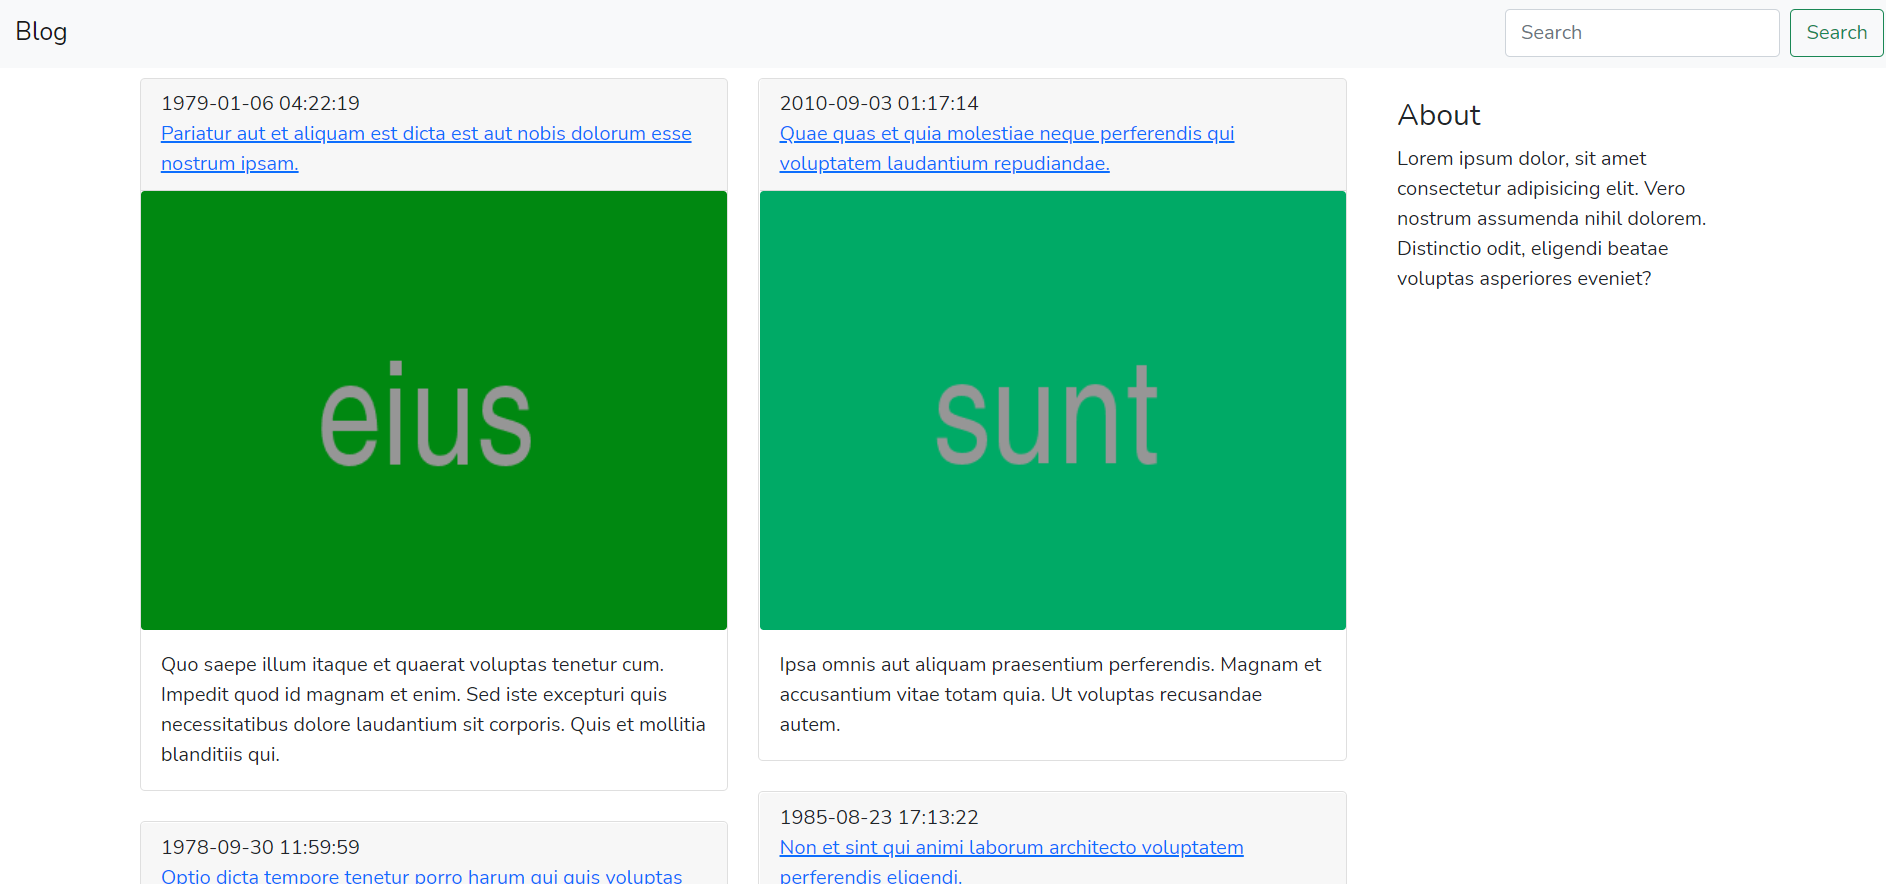
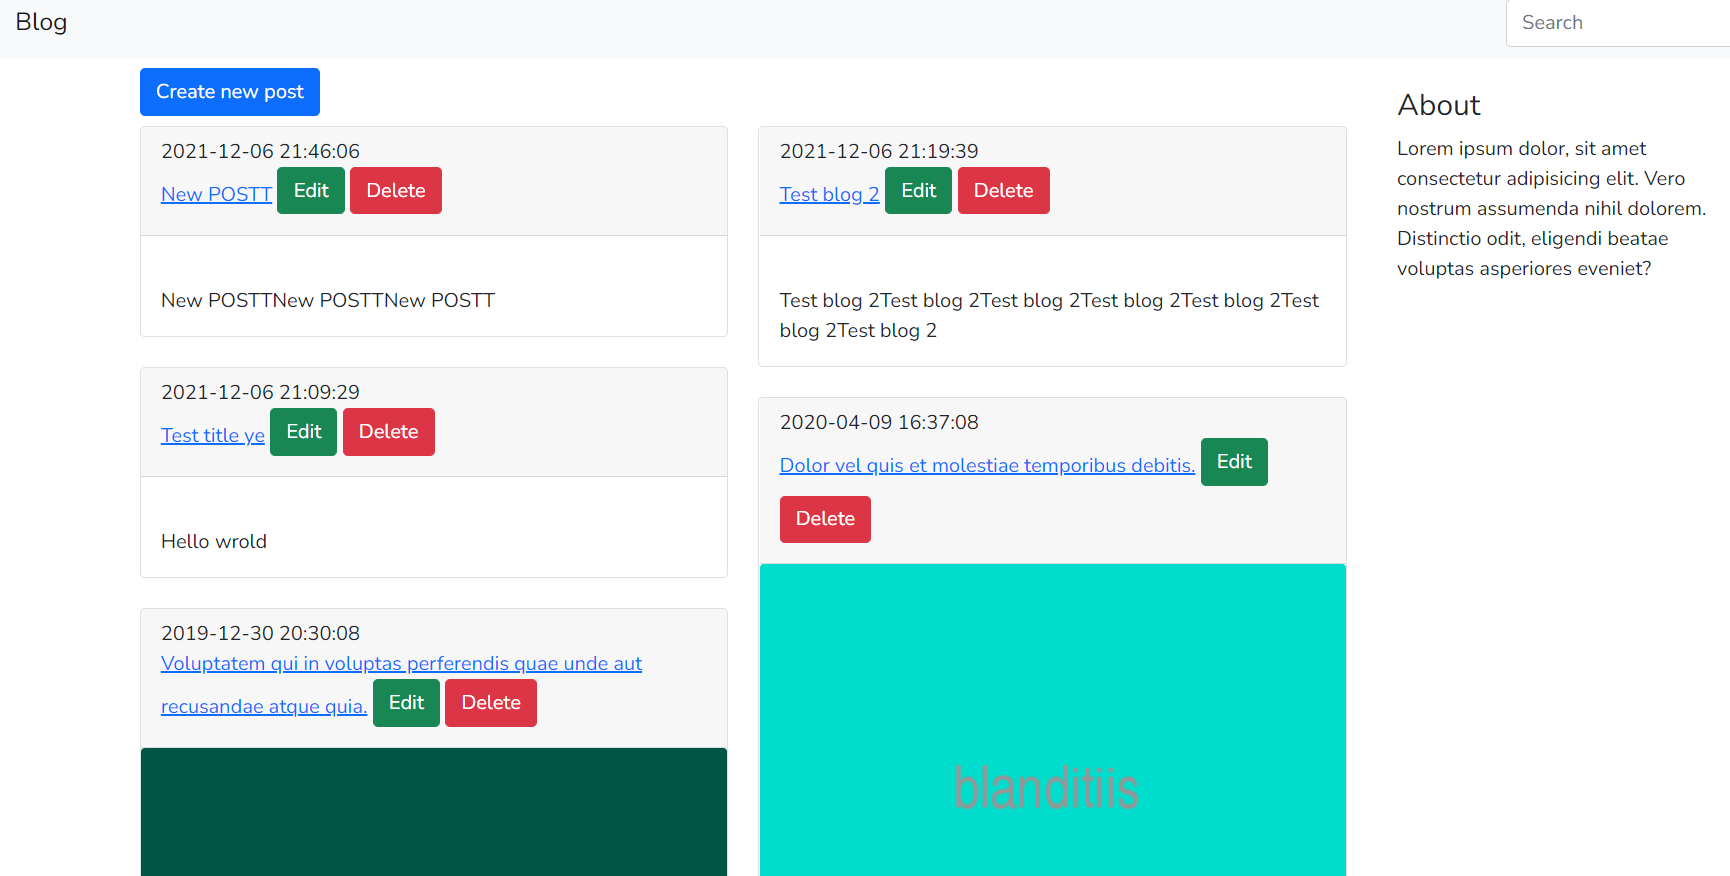
CRUD

diff --git a/testing/blog/resources/views/pages/blog.blade.php b/testing/blog/resources/views/pages/blog.blade.php
@@ -4,18 +4,41 @@
 
 @section('content')
     <div class="col-md-9">
+        @if ($msg = Session::get('success'))
+            <div class="position-fixed bottom-0 end-0 p-3" style="z-index: 11">
+                <div id="liveToast" class="toast show" role="alert" aria-live="assertive" aria-atomic="true">
+                    <div class="toast-header">
+                        <strong class="me-auto"><i class="bi-globe"></i> Success!</strong>
+                        <small>Now</small>
+                        <button type="button" class="btn-close" data-bs-dismiss="toast"></button>
+                    </div>
+                    <div class="toast-body">
+                        {{ $msg }}
+                    </div>
+                </div>
+            </div>
+        @endif
         <div class="row">
-
+            <div class="col-md-12">
+                <a href="{{ route('posts.create') }}" class="btn btn-primary mb-2">Create new post</a>
+            </div>
             <div class="col-md-6">
                 @for ($i = 0; $i < count($posts); $i += 2)
                     <?php $post = $posts[$i]; ?>
                     <article class="card mb-4">
                         <header class="card-header">
                             <div class="card-meta">{{ $post['created_at'] }}</div>
-                            <a href="{{ route('viewPost', ['slug' => $post['slug']]) }}">{{ $post['title'] }}</a>
+                            <a href="{{ route('posts.show', ['slug' => $post['slug']]) }}">{{ $post['title'] }}</a>
+                            <a href="{{ route('posts.edit', ['slug' => $post['slug']]) }}"
+                                class="btn btn-success mb-2">Edit</a>
+                            <form action="{{ route('posts.destroy', $post->slug) }}" method="POST">
+                                @csrf
+                                @method("DELETE")
+                                <button type="submit" class="btn btn-danger mb-2">Delete</button>
+                            </form>
                         </header>
-                        <a href="{{ route('viewPost', ['slug' => $post['slug']]) }}">
-                            <img class="card-img" src="/storage/images/{{ $post['image'] }}" />
+                        <a href="{{ route('posts.show', ['slug' => $post['slug']]) }}">
+                            <img class="card-img" src="/storage/images/{{ $post['image'] }}" alt="" />
                         </a>
                         <div class="card-body">
                             {{ $post['body'] }}
@@ -29,10 +52,17 @@
                     <article class="card mb-4">
                         <header class="card-header">
                             <div class="card-meta">{{ $post['created_at'] }}</div>
-                            <a href="{{ route('viewPost', ['slug' => $post['slug']]) }}">{{ $post['title'] }}</a>
+                            <a href="{{ route('posts.show', ['slug' => $post['slug']]) }}">{{ $post['title'] }}</a>
+                            <a href="{{ route('posts.edit', ['slug' => $post['slug']]) }}"
+                                class="btn btn-success mb-2">Edit</a>
+                            <form action="{{ route('posts.destroy', $post->slug) }}" method="POST">
+                                @csrf
+                                @method("DELETE")
+                                <button type="submit" class="btn btn-danger mb-2">Delete</button>
+                            </form>
                         </header>
-                        <a href="{{ route('viewPost', ['slug' => $post['slug']]) }}">
-                            <img class="card-img" src="/storage/images/{{ $post['image'] }}" />
+                        <a href="{{ route('posts.show', ['slug' => $post['slug']]) }}">
+                            <img class="card-img" src="/storage/images/{{ $post['image'] }}" alt="" />
                         </a>
                         <div class="card-body">
                             {{ $post['body'] }}
@@ -43,6 +73,13 @@
 
         </div>
     </div>
+
+    <style>
+        form {
+            display: inline;
+        }
+
+    </style>
 
     {{-- @php
     $range = [1, 100];

diff --git a/testing/blog/app/Http/Controllers/PostsController.php b/testing/blog/app/Http/Controllers/PostsController.php
@@ -1,0 +1,110 @@
+<?php
+
+namespace App\Http\Controllers;
+
+use App\Models\Blog;
+use Illuminate\Http\Request;
+
+class PostsController extends Controller
+{
+    /**
+     * Display a listing of the resource.
+     *
+     * @return \Illuminate\Http\Response
+     */
+    public function index()
+    {
+        $posts = Blog::latest()->paginate(7);
+     
+        return view("pages.blog", [
+            "posts" => $posts
+        ]);
+    }
+
+    /**
+     * Show the form for creating a new resource.
+     *
+     * @return \Illuminate\Http\Response
+     */
+    public function create()
+    {
+        return view("pages.create_post");
+    }
+
+    /**
+     * Store a newly created resource in storage.
+     *
+     * @param  \Illuminate\Http\Request  $request
+     * @return \Illuminate\Http\Response
+     */
+    public function store(Request $request)
+    {
+        $request->validate([
+            "title" => "required",
+            "body" => "required",
+        ]);
+        $slug = [
+            "slug" => strtolower(str_replace(" ", "-", $request->input("title")))
+        ];
+        Blog::create($request->all() + $slug);
+        
+        return redirect()->route("posts.index")->with("success", "Post has been added");
+    }
+
+    /**
+     * Display the specified resource.
+     *
+     * @param  \App\Models\String  $slug
+     * @return \Illuminate\Http\Response
+     */
+    public function show($slug)
+    {
+        $post = Blog::where("slug", $slug)->firstOrFail();
+        return view("pages.post", $post);
+    }
+
+    /**
+     * Show the form for editing the specified resource.
+     *
+     * @param  \App\Models\String  $slug
+     * @return \Illuminate\Http\Response
+     */
+    public function edit($slug)
+    {
+        $post = Blog::where("slug", $slug)->firstOrFail();
+        return view("pages.post_edit", $post);
+    }
+
+    /**
+     * Update the specified resource in storage.
+     *
+     * @param  \Illuminate\Http\Request  $request
+     * @param  \App\Models\String  $slug
+     * @return \Illuminate\Http\Response
+     */
+    public function update(Request $request, $slug)
+    {
+        $validatedData = $request->validate([
+            "title" => "required",
+            "body" => "required",
+        ]);
+
+        Blog::where("slug", $slug)->update($validatedData);
+
+        return redirect("/posts")->with("success", "Post has been updated");
+    }
+
+    /**
+     * Remove the specified resource from storage.
+     *
+     * @param  \App\Models\String  $slug
+     * @return \Illuminate\Http\Response
+     */
+    public function destroy($slug)
+    {
+        $post = Blog::where("slug", $slug)->firstOrFail();
+        $post->delete();
+
+        return redirect("/posts")->with("success", "Post has been deleted");
+    }
+}

diff --git a/testing/blog/resources/views/pages/post_edit.blade.php b/testing/blog/resources/views/pages/post_edit.blade.php
@@ -1,0 +1,35 @@
+@extends ("layouts.app")
+
+@section('title', 'Editing post ' . $title)
+
+@section('content')
+    <div class="col-md-9">
+        <form action="{{ route('posts.update', $slug) }}" method="POST">
+            @csrf
+            @method("PUT")
+            <div class="mb-3">
+                <h1>Editing</h1>
+                <label for="titleInput" class="form-label">Title </label>
+                <input name="title" value="{{ $title }}" type="text" class="form-control" id="titleInput"
+                    placeholder="Title">
+                <div id="emailHelp" class="form-text">Your post's title publicly visible to everyone.</div>
+
+                <input style="display: none;" name="author" value="TODO" />
+                <input style="display: none;" name="category" value="TODO" />
+                <input style="display: none;" name="image" value="TODO" />
+
+
+            </div>
+            <div class="mb-3">
+                <label for="exampleFormControlTextarea1">Content</label>
+                <textarea name="body" class="form-control" id="exampleFormControlTextarea1" rows="10"
+                    placeholder="Write your post here">{{ $body }}</textarea>
+            </div>
+
+            <button type="submit" class="btn btn-success">Edit blog</button>
+
+
+
+        </form>
+    </div>
+@endsection

diff --git a/testing/blog/resources/views/pages/create_post.blade.php b/testing/blog/resources/views/pages/create_post.blade.php
@@ -1,0 +1,32 @@
+@extends ("layouts.app")
+
+@section('title', 'Create new post')
+
+@section('content')
+    <div class="col-md-9">
+        <form action="{{ route('posts.store') }}" method="POST">
+            @csrf
+            <div class="mb-3">
+                <label for="titleInput" class="form-label">Title</label>
+                <input name="title" type="text" class="form-control" id="titleInput" placeholder="Title">
+                <div id="emailHelp" class="form-text">Your post's title publicly visible to everyone.</div>
+
+                <input style="display: none;" name="author" value="TODO" />
+                <input style="display: none;" name="category" value="TODO" />
+                <input style="display: none;" name="image" value="TODO" />
+
+
+            </div>
+            <div class="mb-3">
+                <label for="exampleFormControlTextarea1">Content</label>
+                <textarea name="body" class="form-control" id="exampleFormControlTextarea1" rows="10"
+                    placeholder="Write your post here"></textarea>
+            </div>
+
+            <button type="submit" class="btn btn-primary">Post blog</button>
+
+
+
+        </form>
+    </div>
+@endsection

diff --git a/testing/blog/routes/web.php b/testing/blog/routes/web.php
@@ -2,6 +2,8 @@
 use Illuminate\Support\Facades\Route;
 
 use App\Http\Controllers\BlogController;
+use App\Http\Controllers\PostsController;
+
 /*
 |--------------------------------------------------------------------------
 | Web Routes
@@ -17,9 +19,11 @@ Route::get('/', function () {
     return view('welcome');
 });
 
-Route::get('/blog', [BlogController::class, "showBlog"])->name("blog");
+// Route::get('/blog', [BlogController::class, "showBlog"])->name("blog");
 
-Route::get('/post/{slug}', [BlogController::class, "showPost"])->name("viewPost");
+// Route::get('/post/{slug}', [BlogController::class, "showPost"])->name("viewPost");
 
-Route::get('/blogs', [BlogController::class, "index"]);
-Route::get('/blogs/recommended', [BlogController::class, "recommended"]);
+// Route::get('/blogs', [BlogController::class, "index"]);
+// Route::get('/blogs/recommended', [BlogController::class, "recommended"]);
+
+Route::resource("posts", "App\Http\Controllers\PostsController")->parameters(["posts" => "slug"]);

diff --git a/testing/blog/resources/views/pages/post.blade.php b/testing/blog/resources/views/pages/post.blade.php
@@ -13,7 +13,7 @@
                 <h1 class="card-title">{{ $title }}</h1>
             </header>
             <a href="post-image.html">
-                <img class="card-img" src="/storage/images/{{ $image }}" alt="">
+                <img class="card-img" src="/storage/images/{{ $image }}" alt="no img sry">
             </a>
             <div class="card-body">
                 {{ $body }}

diff --git a/testing/blog/app/Models/Blog.php b/testing/blog/app/Models/Blog.php
@@ -8,5 +8,14 @@ use Illuminate\Database\Eloquent\Model;
 class Blog extends Model
 {
     use HasFactory;
-    
+    protected $fillable = [
+        "title",
+        "body", 
+        "slug",
+        "created_at",
+        "updated_at",
+        "author" ,
+        "category",
+        "image"
+    ];
 }

diff --git a/testing/blog/resources/views/goback.blade.php b/testing/blog/resources/views/goback.blade.php
@@ -1,1 +1,1 @@
-<a class="navbar-brand" href="/blog">Go back to Blog</a>
+<a class="navbar-brand" href="{{ route('posts.index') }}">Go back to Blog</a>
